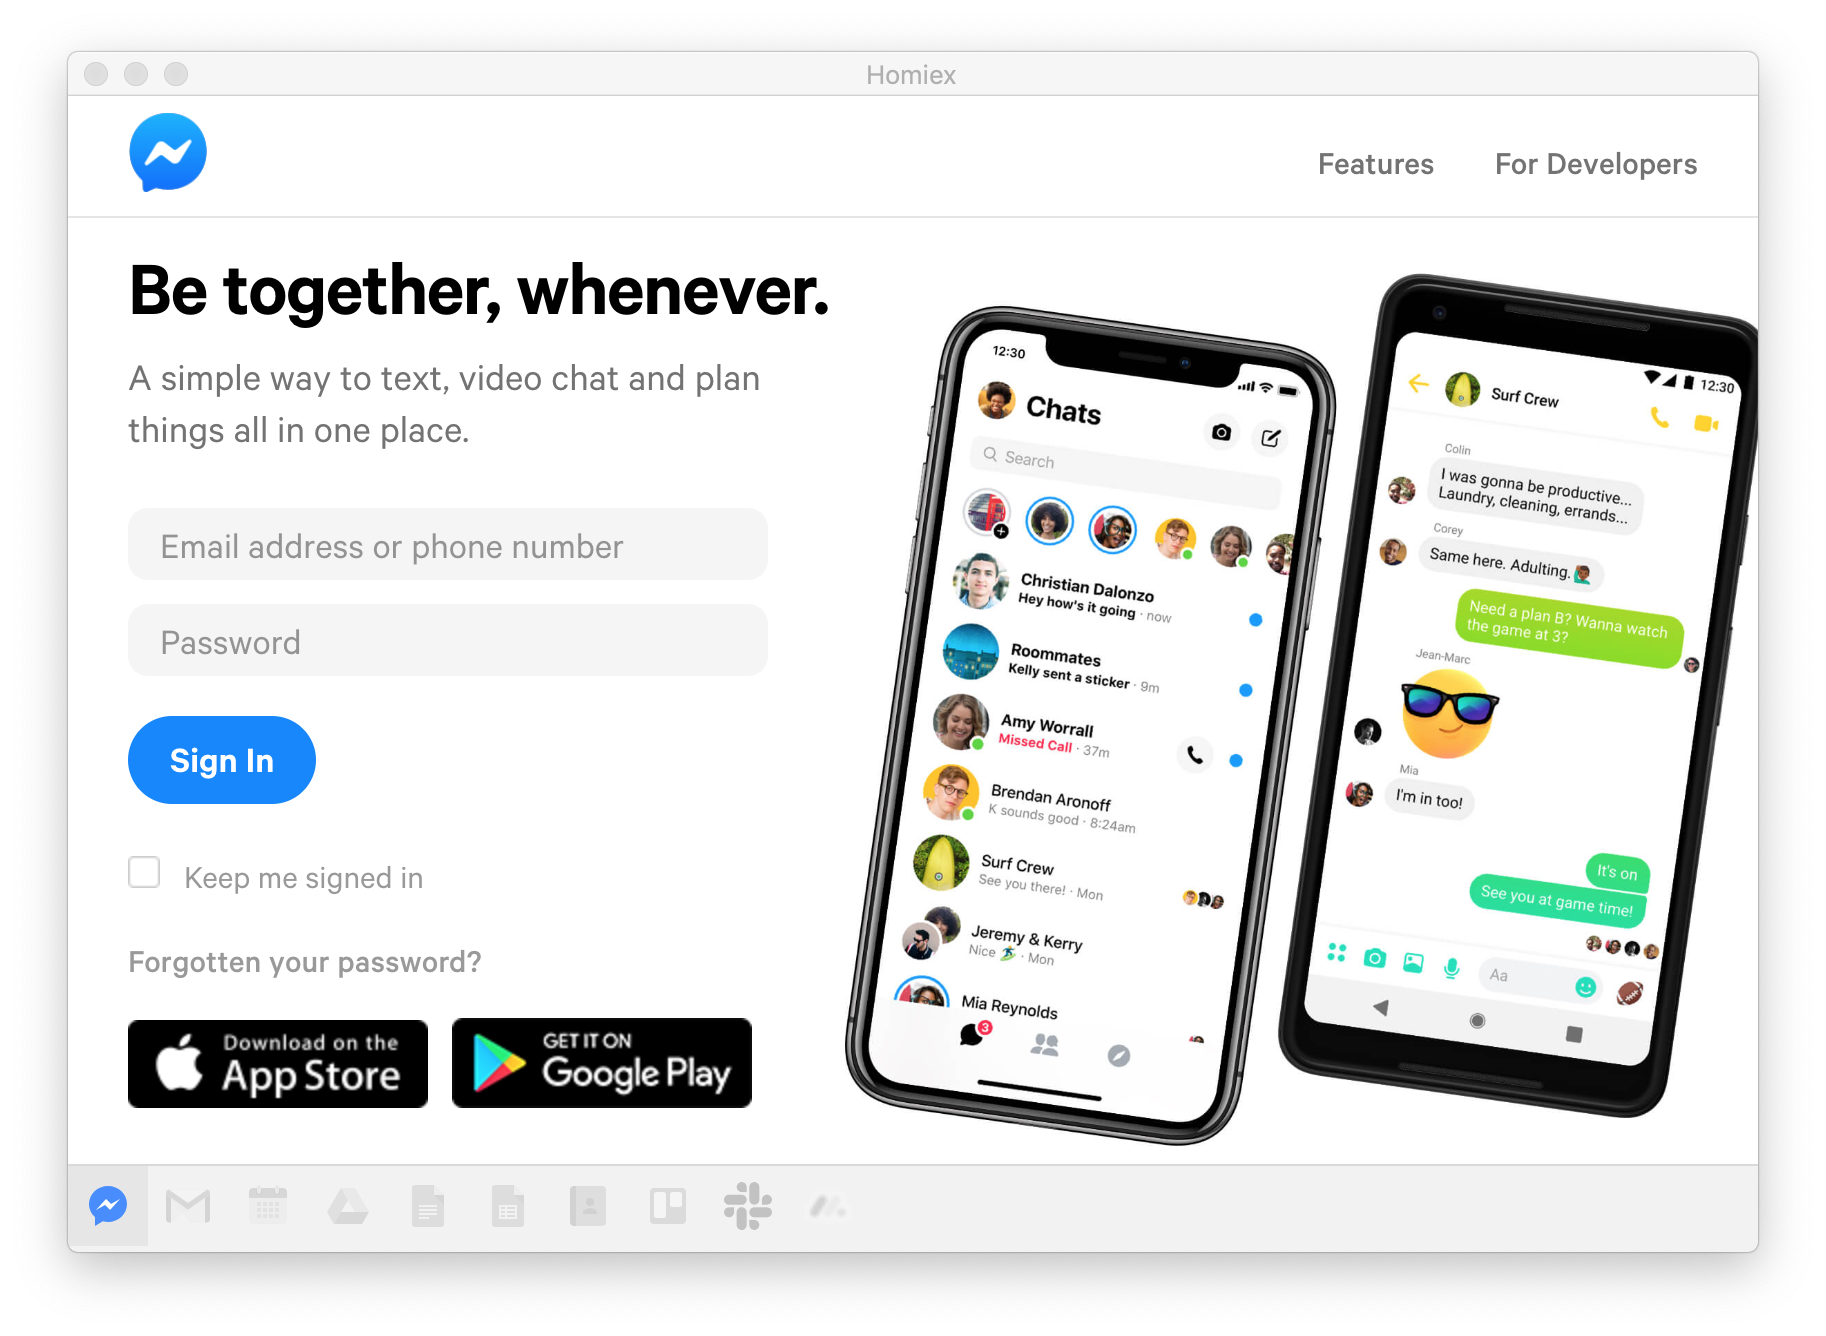
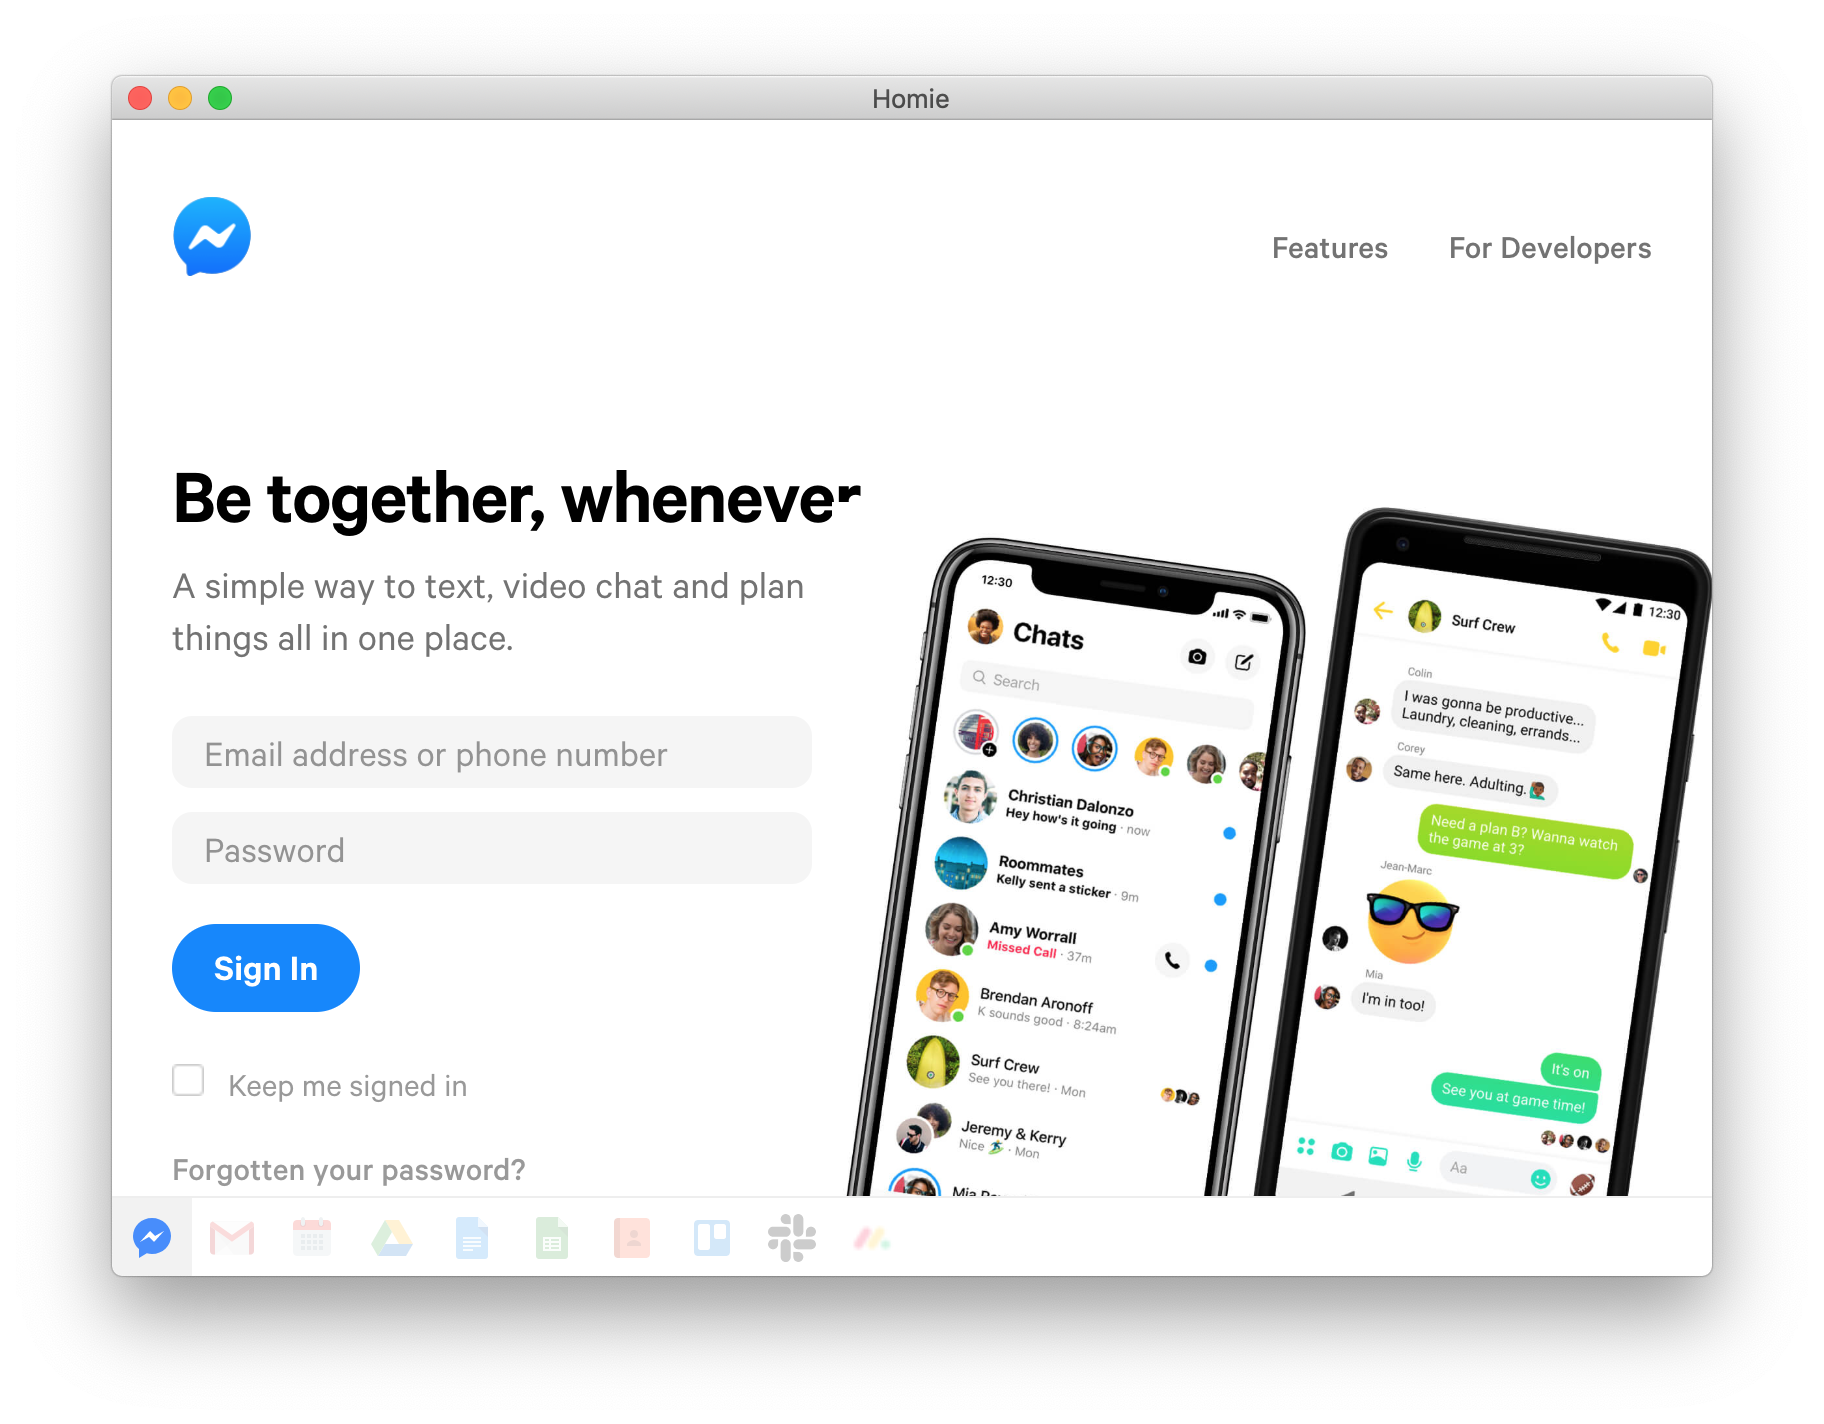
remove desaturation, add screenshots and media, add dmg build target

Changed region(s): [[0.0312, 0.0307, 0.9688, 0.9513], [0.0938, 0.399, 0.4375, 0.491]]

diff --git a/build.js b/build.js
@@ -3,26 +3,32 @@
 const builder = require('electron-builder');
 const Platform = builder.Platform;
 
+// https://www.electron.build/configuration/dmg
 // Promise is returned
 builder
-    .build({
-        targets: Platform.MAC.createTarget(),
-        config: {
-            appId: 'se.jonasjohansson.homie',
-
-            mac: {
-                category: 'public.app-category.social-networking',
-                target: ['dir'],
-                electronUpdaterCompatibility: '>=2.16.0'
-            }
-        }
-    })
-    .then(() => {
-        // handle result
-    })
-    .catch(error => {
-        // handle error
-    });
+	.build({
+		targets: Platform.MAC.createTarget(),
+		config: {
+			appId: 'se.jonasjohansson.homie',
+			mac: {
+				category: 'public.app-category.social-networking',
+				target: ['dir', 'dmg'],
+				electronUpdaterCompatibility: '>=2.16.0'
+			},
+			dmg: {
+				title: '${name}',
+				backgroundColor: '#999',
+				// icon: 'build/icon-negative.png',
+				iconSize: 100
+			}
+		}
+	})
+	.then(() => {
+		// handle result
+	})
+	.catch(error => {
+		// handle error
+	});
 
 // build options, see https://goo.gl/QQXmcV
 // https://www.electron.build/configuration/mac

diff --git a/assets/style.css b/assets/style.css
@@ -78,7 +78,7 @@ webview {
 
 aside {
 	position: fixed;
-	border-top: 1px solid rgba(0, 0, 0, 0.1);
+	border-top: 1px solid #eee;
 	box-sizing: border-box;
 }
 
@@ -95,7 +95,7 @@ aside {
 
 .bookmark:not(.active) .icon {
 	opacity: 0.2;
-	filter: saturate(0);
+	/*filter: saturate(0);*/
 }
 
 .bookmark .url,
@@ -137,12 +137,12 @@ aside {
 /* classes */
 
 html:not(.dark-mode) aside {
-	background-color: rgba(0, 0, 0, 0.05);
+	background-color: white;
 	color: black;
 }
 
 html.dark-mode aside {
-	background-color: rgba(0, 0, 0, 0.7);
+	background-color: black;
 	color: white;
 }
 
@@ -164,6 +164,7 @@ html.portrait main {
 
 html.portrait aside {
 	width: 100%;
+	height: var(--aside-width);
 	bottom: 0;
 }
 

diff --git a/bookmark.js b/bookmark.js
@@ -15,9 +15,9 @@ class Bookmark extends EventEmitter {
 
 		this.view = new WebView();
 		this.view.autosize = true;
-		// this.view.nodeIntegration = false;
+		this.view.nodeIntegration = false;
 		// https://github.com/meetfranz/franz/issues/1185
-		this.view.useragent = 'Mozilla/5.0 (X11; Linux x86_64) AppleWebKit/537.36 (KHTML, like Gecko) Chrome/71.0.3578.98 Safari/537.36';
+		// this.view.useragent = 'Mozilla/5.0 (X11; Linux x86_64) AppleWebKit/537.36 (KHTML, like Gecko) Chrome/71.0.3578.98 Safari/537.36';
 		this.view.allowpopups = true;
 
 		this.handleIcon = document.createElement('div');
